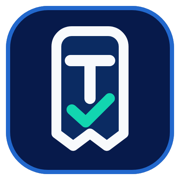
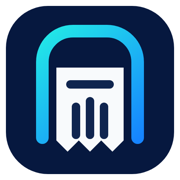
Update Tivrix brand mark

diff --git a/src/shared/ui/tivrix-mark.tsx b/src/shared/ui/tivrix-mark.tsx
@@ -10,18 +10,36 @@ export function TivrixMark(props: SVGProps<SVGSVGElement>) {
       focusable="false"
       {...props}
     >
-      <rect x="2" y="2" width="60" height="60" rx="15" fill="#071A4B" />
-      <rect x="2.75" y="2.75" width="58.5" height="58.5" rx="14.25" stroke="#2E86FF" strokeOpacity=".72" strokeWidth="1.5" />
+      {/* Background */}
+      <rect x="2" y="2" width="60" height="60" rx="15" fill="#06183F" />
+
+      {/* Simplified phone / screen outline */}
       <path
-        d="M20 47.5V16.5C20 13.46 22.46 11 25.5 11H38.5C41.54 11 44 13.46 44 16.5V47.5L38 52L32 47.5L26 52L20 47.5Z"
-        fill="#0B2B62"
-        stroke="#F8FAFC"
-        strokeWidth="3.5"
+        d="M15 49V22C15 15.9 19.9 11 26 11H38C44.1 11 49 15.9 49 22V49"
+        stroke="url(#tivrix-gradient)"
+        strokeWidth="4.5"
+        strokeLinecap="round"
         strokeLinejoin="round"
       />
-      <path d="M25 21.5H39" stroke="#F8FAFC" strokeWidth="4" strokeLinecap="round" />
-      <path d="M32 22V35" stroke="#F8FAFC" strokeWidth="4" strokeLinecap="round" />
-      <path d="M25.5 39L30.5 43.5L39 35" stroke="#12D6B0" strokeWidth="3.75" strokeLinecap="round" strokeLinejoin="round" />
+
+      {/* Receipt */}
+      <path
+        d="M20 24H44V50L40 54L36 50L32 54L28 50L24 54L20 50Z"
+        fill="#F8FAFC"
+      />
+
+      {/* T-shaped receipt header */}
+      <path d="M25 30H39" stroke="#10254F" strokeWidth="3" strokeLinecap="round" />
+
+      {/* Simplified barcode / T stem */}
+      <path d="M27 38V48M32 36V48M37 38V48" stroke="#10254F" strokeWidth="3" strokeLinecap="round" />
+
+      <defs>
+        <linearGradient id="tivrix-gradient" x1="16" y1="12" x2="49" y2="50" gradientUnits="userSpaceOnUse">
+          <stop stopColor="#22E7E7" />
+          <stop offset="1" stopColor="#1684FF" />
+        </linearGradient>
+      </defs>
     </svg>
   );
 }
